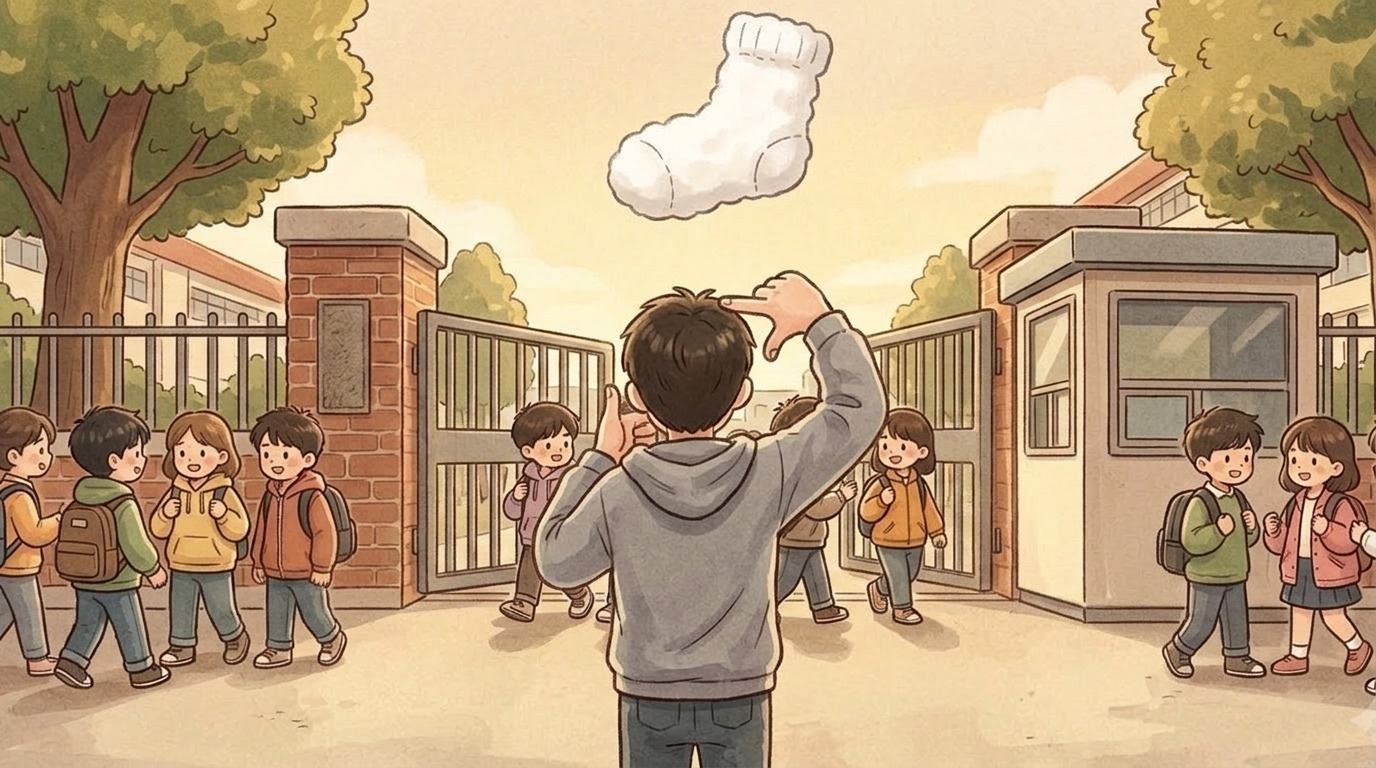
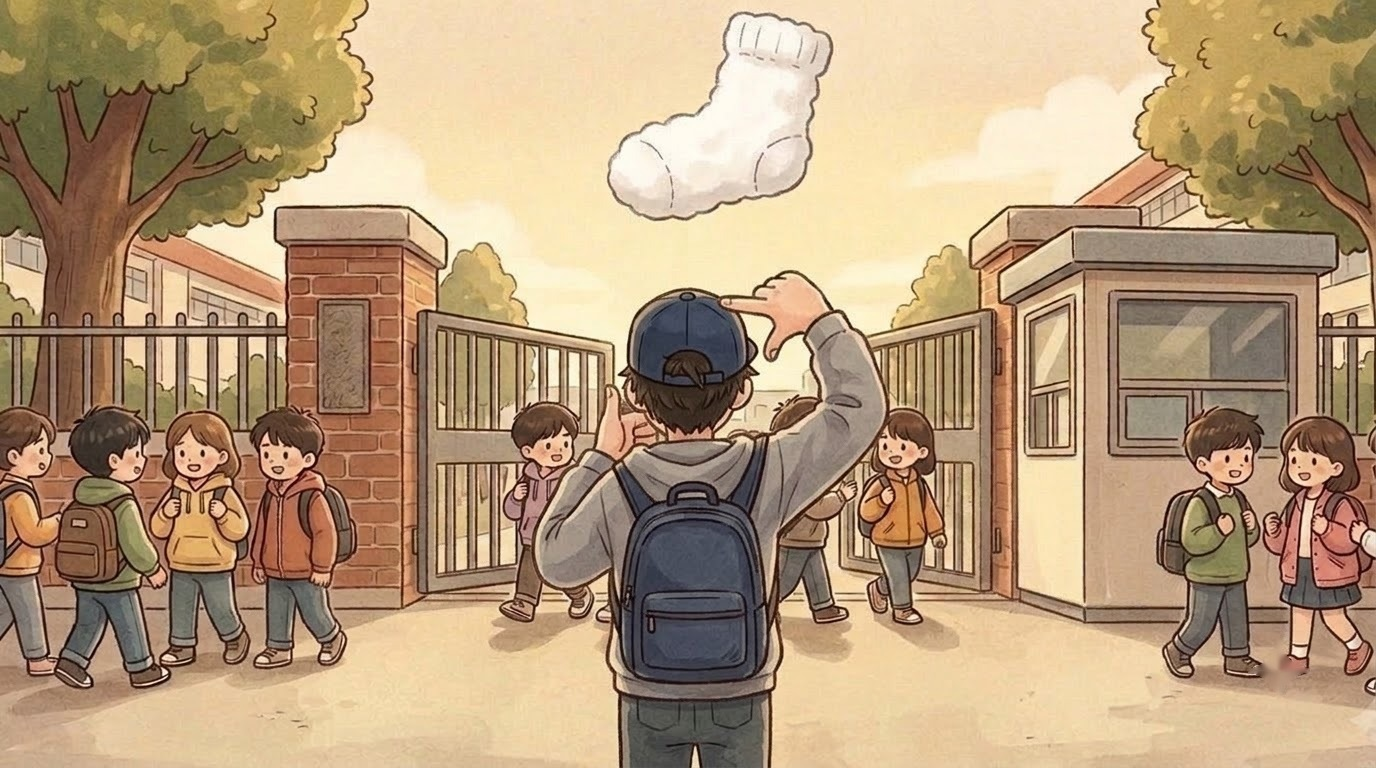
그림 세션 Flow 2장(메인 비교): 준호 그물이 얼굴 앞으로(junho_03g)·지훈 모자·가방(jihoon_02e)

Changed region(s): [[0.4375, 0.375, 0.5938, 0.9062], [0.9062, 0.8438, 0.9375, 0.9062]]

diff --git a/index.html b/index.html
@@ -119,14 +119,14 @@ body,button{word-break:keep-all;overflow-wrap:break-word}
 <div id="fader"></div>
 <script>
 // same address, newest version: if the page this phone has kept is older than the one online, fetch the new one and reopen
-const BUILD='1109105623';
+const BUILD='1109105904';
 try{fetch(location.pathname,{cache:'no-store'}).then(r=>r.text()).then(t=>{const m=t.match(/const BUILD='(\d+)'/);if(m&&m[1]!==BUILD&&sessionStorage.getItem('upd')!==m[1]){sessionStorage.setItem('upd',m[1]);fetch(location.pathname,{cache:'reload'}).then(()=>location.reload())}}).catch(()=>{})}catch(e){}
 </script>
-<script src="i18n.js?v=1109105623"></script>
-<script src="i18n_prologue_v2.js?v=1109105623"></script>
-<script src="day2/i18n_engine.js?v=1109105623"></script>
-<script src="day2/data.js?v=1109105623"></script>
-<script src="day3/data.js?v=1109105623"></script>
+<script src="i18n.js?v=1109105904"></script>
+<script src="i18n_prologue_v2.js?v=1109105904"></script>
+<script src="day2/i18n_engine.js?v=1109105904"></script>
+<script src="day2/data.js?v=1109105904"></script>
+<script src="day3/data.js?v=1109105904"></script>
 <script>
 // ---------- data ----------
 const MW=1672,MH=941,KID=180;
@@ -569,36 +569,36 @@ function pickHero(){const m=document.getElementById('modal'),c=document.getEleme
  c.innerHTML=`<h2>${tr('전학생 반장되기')}</h2><p>${tr('한국말이 아직 서툰 전학생,<br>반장 선거에 나가다.')}</p><p style="margin-top:14px">${tr('누구로 할까요?')}</p>${(()=>{const s=loadSave();return s&&s.day>=2&&s.mode===UI+'-'+LANG?`<p><button class="big" id="cont">${tr('{n}일차부터 이어 하기').replace('{n}',s.day)}</button></p>`:''})()}<div class="pick heroes"><button data-h="hero_f"><img src="faces/hero_f_smile.jpg" alt="여자 주인공">${heroName(1)}</button><button data-h="hero_m"><img src="faces/hero_m_smile.jpg" alt="남자 주인공">${heroName(0)}</button></div>`;
  m.classList.add('on');{const cb=document.getElementById('cont');if(cb)cb.onclick=()=>{const s=loadSave();HERO=s.hero;Object.assign(HEART,s.heart||{});(s.found||[]).forEach(k=>FOUND.add(k));HEART_D1={...HEART};chime();(typeof contGame==='function'?contGame(s):startDay(Math.min(s.day,Object.keys(window.D3||{}).length?3:2)))}}c.querySelectorAll('.pick button').forEach(b=>b.onclick=()=>{HERO=b.dataset.h;m.classList.remove('on');chime();bgm('day');load('home_am');say([['nar','','이사 온 다음 날 아침. 아직 풀지 못한 상자들이 쌓여 있다.'],['think','sad','(오늘부터 새 학교야. 여기 말도 아직 서툰데…….)'],['think','smile','({m}한테 인사하고 학교 가야지.)']],morning)})}
 </script>
-<script src="day2/engine.js?v=1109105623"></script>
-<script src="day2/ep_minho.js?v=1109105623"></script>
-<script src="day2/meet.js?v=1109105623"></script>
-<script src="day2/ep_sua.js?v=1109105623"></script>
-<script src="day2/ep_hangyeol.js?v=1109105623"></script>
-<script src="day2/ep_siwoo.js?v=1109105623"></script>
-<script src="day2/ep_haram.js?v=1109105623"></script>
-<script src="day2/ep_jiho.js?v=1109105623"></script>
-<script src="day2/ep_hyeeun.js?v=1109105623"></script>
-<script src="day2/ep_haneul.js?v=1109105623"></script>
-<script src="day2/ep_junho.js?v=1109105623"></script>
-<script src="day2/ep_yuna.js?v=1109105623"></script>
-<script src="day2/ep_yena.js?v=1109105623"></script>
-<script src="day2/ep_haeun.js?v=1109105623"></script>
-<script src="day2/ep_youngmin.js?v=1109105623"></script>
-<script src="day2/ep_seah.js?v=1109105623"></script>
-<script src="day2/ep_jihoon.js?v=1109105623"></script>
-<script src="words_ja_ru.js?v=1109105623"></script>
-<script src="day2/mybag.js?v=1109105623"></script>
-<script src="day2/wordpics.js?v=1109105623"></script>
-<script src="day2/spots.js?v=1109105623"></script>
-<script src="day2/textfit.js?v=1109105623"></script>
-<script src="day2/tester.js?v=1109105623"></script>
-<script src="day2/ux.js?v=1109105623"></script>
-<script src="day2/tapword.js?v=1109105623"></script>
-<script src="day2/review.js?v=1109105623"></script>
-<script src="day2/plane.js?v=1109105623"></script>
-<script src="day2/bubble.js?v=1109105623"></script>
-<script src="day2/ep_ending.js?v=1109105623"></script>
-<script src="day2/ending.js?v=1109105623"></script>
+<script src="day2/engine.js?v=1109105904"></script>
+<script src="day2/ep_minho.js?v=1109105904"></script>
+<script src="day2/meet.js?v=1109105904"></script>
+<script src="day2/ep_sua.js?v=1109105904"></script>
+<script src="day2/ep_hangyeol.js?v=1109105904"></script>
+<script src="day2/ep_siwoo.js?v=1109105904"></script>
+<script src="day2/ep_haram.js?v=1109105904"></script>
+<script src="day2/ep_jiho.js?v=1109105904"></script>
+<script src="day2/ep_hyeeun.js?v=1109105904"></script>
+<script src="day2/ep_haneul.js?v=1109105904"></script>
+<script src="day2/ep_junho.js?v=1109105904"></script>
+<script src="day2/ep_yuna.js?v=1109105904"></script>
+<script src="day2/ep_yena.js?v=1109105904"></script>
+<script src="day2/ep_haeun.js?v=1109105904"></script>
+<script src="day2/ep_youngmin.js?v=1109105904"></script>
+<script src="day2/ep_seah.js?v=1109105904"></script>
+<script src="day2/ep_jihoon.js?v=1109105904"></script>
+<script src="words_ja_ru.js?v=1109105904"></script>
+<script src="day2/mybag.js?v=1109105904"></script>
+<script src="day2/wordpics.js?v=1109105904"></script>
+<script src="day2/spots.js?v=1109105904"></script>
+<script src="day2/textfit.js?v=1109105904"></script>
+<script src="day2/tester.js?v=1109105904"></script>
+<script src="day2/ux.js?v=1109105904"></script>
+<script src="day2/tapword.js?v=1109105904"></script>
+<script src="day2/review.js?v=1109105904"></script>
+<script src="day2/plane.js?v=1109105904"></script>
+<script src="day2/bubble.js?v=1109105904"></script>
+<script src="day2/ep_ending.js?v=1109105904"></script>
+<script src="day2/ending.js?v=1109105904"></script>
 <script>
 // the goal shows big for a few seconds, then folds into a small pill (tap it to open it again)
 {const g=document.getElementById('goal');let t=null;const big=()=>{g.classList.remove('mini');clearTimeout(t);t=setTimeout(()=>g.classList.add('mini'),4000)};
